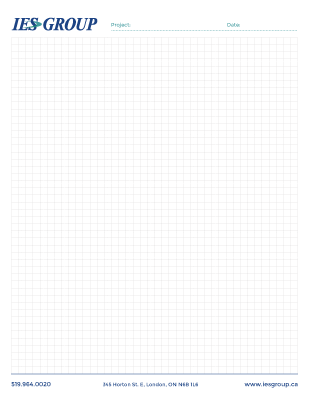
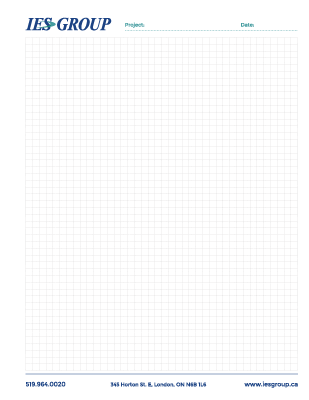
Update to graph paper to leave space for 3 hole punch.

diff --git a/brand.html b/brand.html
@@ -146,7 +146,7 @@
 			<figure>
 				<figcaption><div>GRAPH PAPER</div>
 				<img src="img/IES-Graph-Paper-Web-min.png"/>
-				<a class="download-btn" href="brand/IES-Graph-Paper.pdf" target="_blank">PDF</a></figcaption>
+				<a class="download-btn" href="brand/IES-Graph-Paper-3HP.pdf" target="_blank">PDF</a></figcaption>
 			</figure>
 			<figure>
 				<figcaption><div>LETTERHEAD</div>
